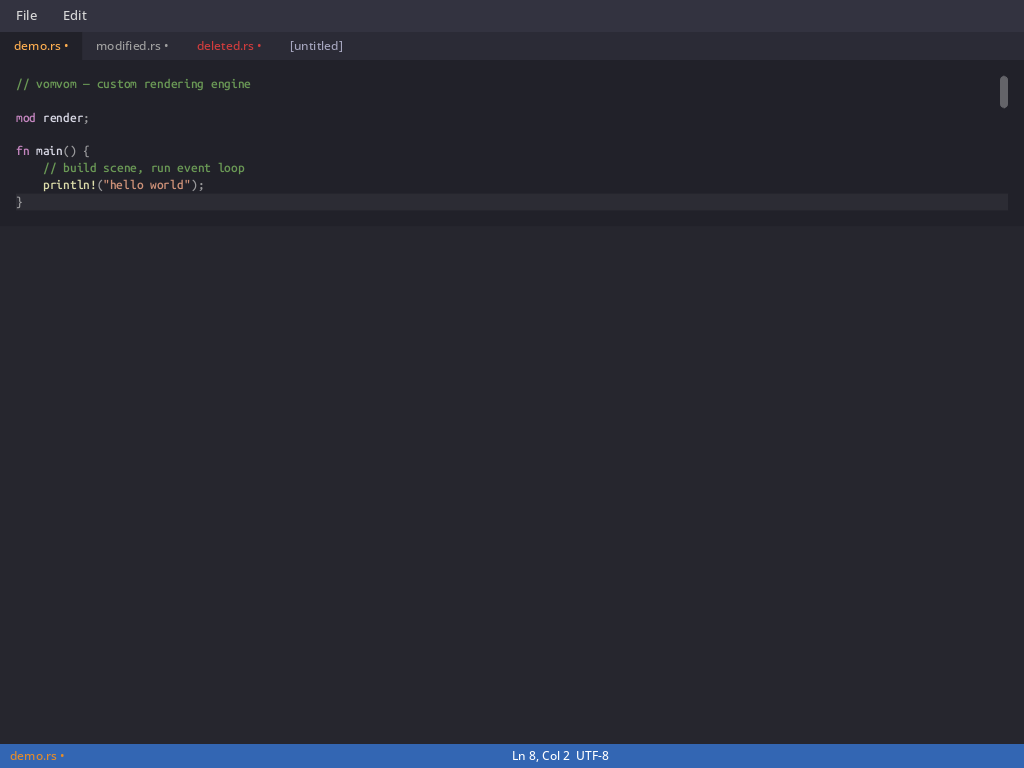
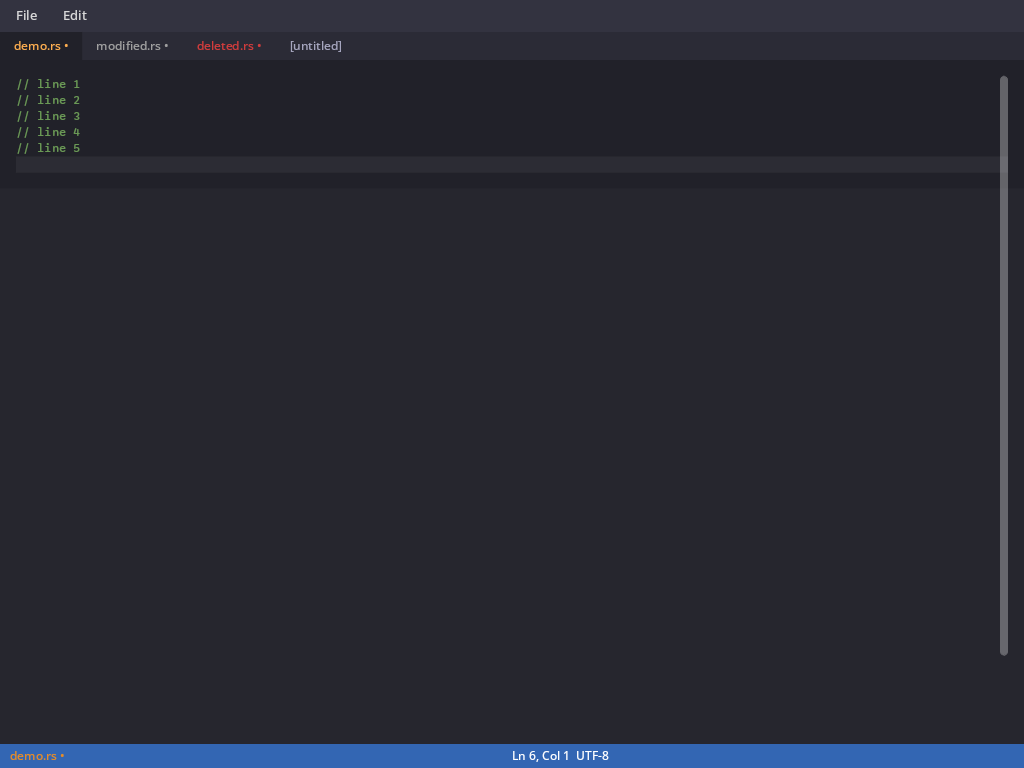
Fix scrollbar thumb geometry: percent height was applied twice for absolute children
layout_absolute_children was resolving the child's own height percent to compute
avail_h, then passing that as available_h — causing the child's layout to resolve
the same percent again against the already-scaled value. Fixed by always passing
containing_h directly. Also wires up update_scrollbar_styles in the screenshot
path, and adds VOMVOM_DEBUG_SCROLLBAR debug prints.

Changed region(s): [[0.9688, 0.125, 1.0, 0.8438], [0.0, 0.0938, 0.2188, 0.25], [0.0938, 0.0938, 0.25, 0.125]]

diff --git a/src/screenshot.rs b/src/screenshot.rs
@@ -24,7 +24,7 @@ use crate::render::layout::{layout, finalize_positions, Constraints};
 use crate::render::paint::{PaintContext, paint_tree_root};
 use crate::render::tree::apply_styles;
 use crate::render::glyph_cache::GlyphCache;
-use crate::{build_demo_scene, SANS_BYTES, MONO_BYTES};
+use crate::{build_demo_scene, update_scrollbar_styles, editor_content_height, SANS_BYTES, MONO_BYTES};
 
 pub fn save_screenshot(path: &Path, width: u32, height: u32) {
     let event_loop = EventLoop::new().unwrap();
@@ -79,17 +79,38 @@ pub fn save_screenshot(path: &Path, width: u32, height: u32) {
     let mut canvas = Canvas::new(renderer).expect("failed to create canvas");
     canvas.set_size(width, height, 1.0);
 
-    let (mut scene, sheet) = build_demo_scene();
+    let (mut scene, sheet, session) = build_demo_scene();
+    let font_size = 11.5_f32;
+    let editor_h = editor_content_height(height as f32);
 
     canvas.clear_rect(0, 0, width, height, femtovg::Color::rgbf(0.15, 0.15, 0.18));
 
     apply_styles(&mut scene, &sheet, &[], None);
+    update_scrollbar_styles(&mut scene, &session, editor_h, font_size);
     let mut measurer = crate::render::femtovg_measurer::SwashMeasurer {
         sans_data: SANS_BYTES,
         mono_data: MONO_BYTES,
     };
     let mut lb = layout(&scene, Constraints::new(width as f32, height as f32), &mut measurer);
     finalize_positions(&mut lb);
+
+    // Debug: print actual track/thumb layout boxes vs what update_scrollbar_styles assumed.
+    // Enable with VOMVOM_DEBUG_SCROLLBAR=1.
+    if std::env::var("VOMVOM_DEBUG_SCROLLBAR").is_ok() {
+        if let Some(editor_lb) = lb.children.get(2) {
+            if let Some(track_lb) = editor_lb.children.last() {
+                eprintln!("[screenshot debug] editor_h={editor_h:.1} track h={:.1} border_box=({:.1},{:.1},{:.1},{:.1})",
+                    track_lb.border_box.h,
+                    track_lb.border_box.x, track_lb.border_box.y,
+                    track_lb.border_box.w, track_lb.border_box.h);
+                if let Some(thumb_lb) = track_lb.children.first() {
+                    eprintln!("[screenshot debug] thumb border_box=({:.1},{:.1},{:.1},{:.1})",
+                        thumb_lb.border_box.x, thumb_lb.border_box.y,
+                        thumb_lb.border_box.w, thumb_lb.border_box.h);
+                }
+            }
+        }
+    }
 
     let mut glyph_cache = GlyphCache::new();
     let mut ctx = PaintContext {

diff --git a/src/main.rs b/src/main.rs
@@ -604,7 +604,7 @@ fn scrollbar_thumb_geometry(total: usize, scroll: usize, visible: usize, track_h
     Some((top, thumb_h))
 }
 
-fn update_scrollbar_styles(root: &mut Node, session: &Session, editor_h: f32, font_size: f32) {
+pub fn update_scrollbar_styles(root: &mut Node, session: &Session, editor_h: f32, font_size: f32) {
     let buf = session.active();
     let total = buf.line_count();
     let visible = visible_lines(editor_h, font_size);
@@ -617,10 +617,14 @@ fn update_scrollbar_styles(root: &mut Node, session: &Session, editor_h: f32, fo
     thumb.style.display = render::style::Display::Block;
     thumb.style.top = render::style::Length::Percent(top_px / editor_h * 100.0);
     thumb.style.height = render::style::Length::Percent(thumb_h_px / editor_h * 100.0);
+    if std::env::var("VOMVOM_DEBUG_SCROLLBAR").is_ok() {
+        eprintln!("[scrollbar] total={total} scroll={} visible={visible} editor_h={editor_h:.1} top_px={top_px:.1} thumb_h_px={thumb_h_px:.1} bottom_px={:.1} top%={:.2} h%={:.2}",
+            buf.scroll_line, top_px + thumb_h_px, top_px / editor_h * 100.0, thumb_h_px / editor_h * 100.0);
+    }
 }
 
 /// Height of the editor content area (inside padding) — equals the scrollbar track height.
-fn editor_content_height(window_h: f32) -> f32 {
+pub fn editor_content_height(window_h: f32) -> f32 {
     // toolbar 32 + tab-bar 28 + statusbar 24 = 84px fixed chrome; editor padding 16px top+bottom
     (window_h - 84.0 - 32.0).max(0.0)
 }
@@ -775,9 +779,10 @@ fn close_all_menus(doc: &mut Document) {
     doc.mark_dirty();
 }
 
-pub fn build_demo_scene() -> (Node, Stylesheet) {
+pub fn build_demo_scene() -> (Node, Stylesheet, Session) {
     use session::buffer::DiskStatus;
-    let sheet = build_stylesheet(11.5);
+    let font_size = 11.5_f32;
+    let sheet = build_stylesheet(font_size);
     let mut session = Session::open(":memory:").expect("in-memory session");
     session.active_mut().path = Some("demo.rs".into());
     session.active_mut().insert("// vomvom — custom rendering engine\n\nmod render;\n\nfn main() {\n    // build scene, run event loop\n    println!(\"hello world\");\n}");
@@ -800,8 +805,8 @@ pub fn build_demo_scene() -> (Node, Stylesheet) {
 
     let mut cache = std::collections::HashMap::new();
     rebuild_highlight_cache(&mut cache, &session);
-    let mut doc = Document::new(build_initial_document(&session, &cache));
-    (doc.root, sheet)
+    let doc = Document::new(build_initial_document(&session, &cache));
+    (doc.root, sheet, session)
 }
 
 fn main() {

diff --git a/src/render/layout.rs b/src/render/layout.rs
@@ -226,8 +226,7 @@ fn layout_absolute_children(node: &Node, containing_w: f32, containing_h: f32, c
         if cs.position != Position::Absolute { continue; }
 
         let avail_w = resolve_length(cs.width, containing_w).unwrap_or(containing_w);
-        let avail_h = resolve_length(cs.height, containing_h).unwrap_or(containing_h);
-        let mut lb = layout(child, Constraints::new(avail_w, avail_h), measurer);
+        let mut lb = layout(child, Constraints::new(avail_w, containing_h), measurer);
 
         let x = resolve_length(cs.left, containing_w)
             .or_else(|| resolve_length(cs.right, containing_w).map(|r| containing_w - lb.border_box.w - r))